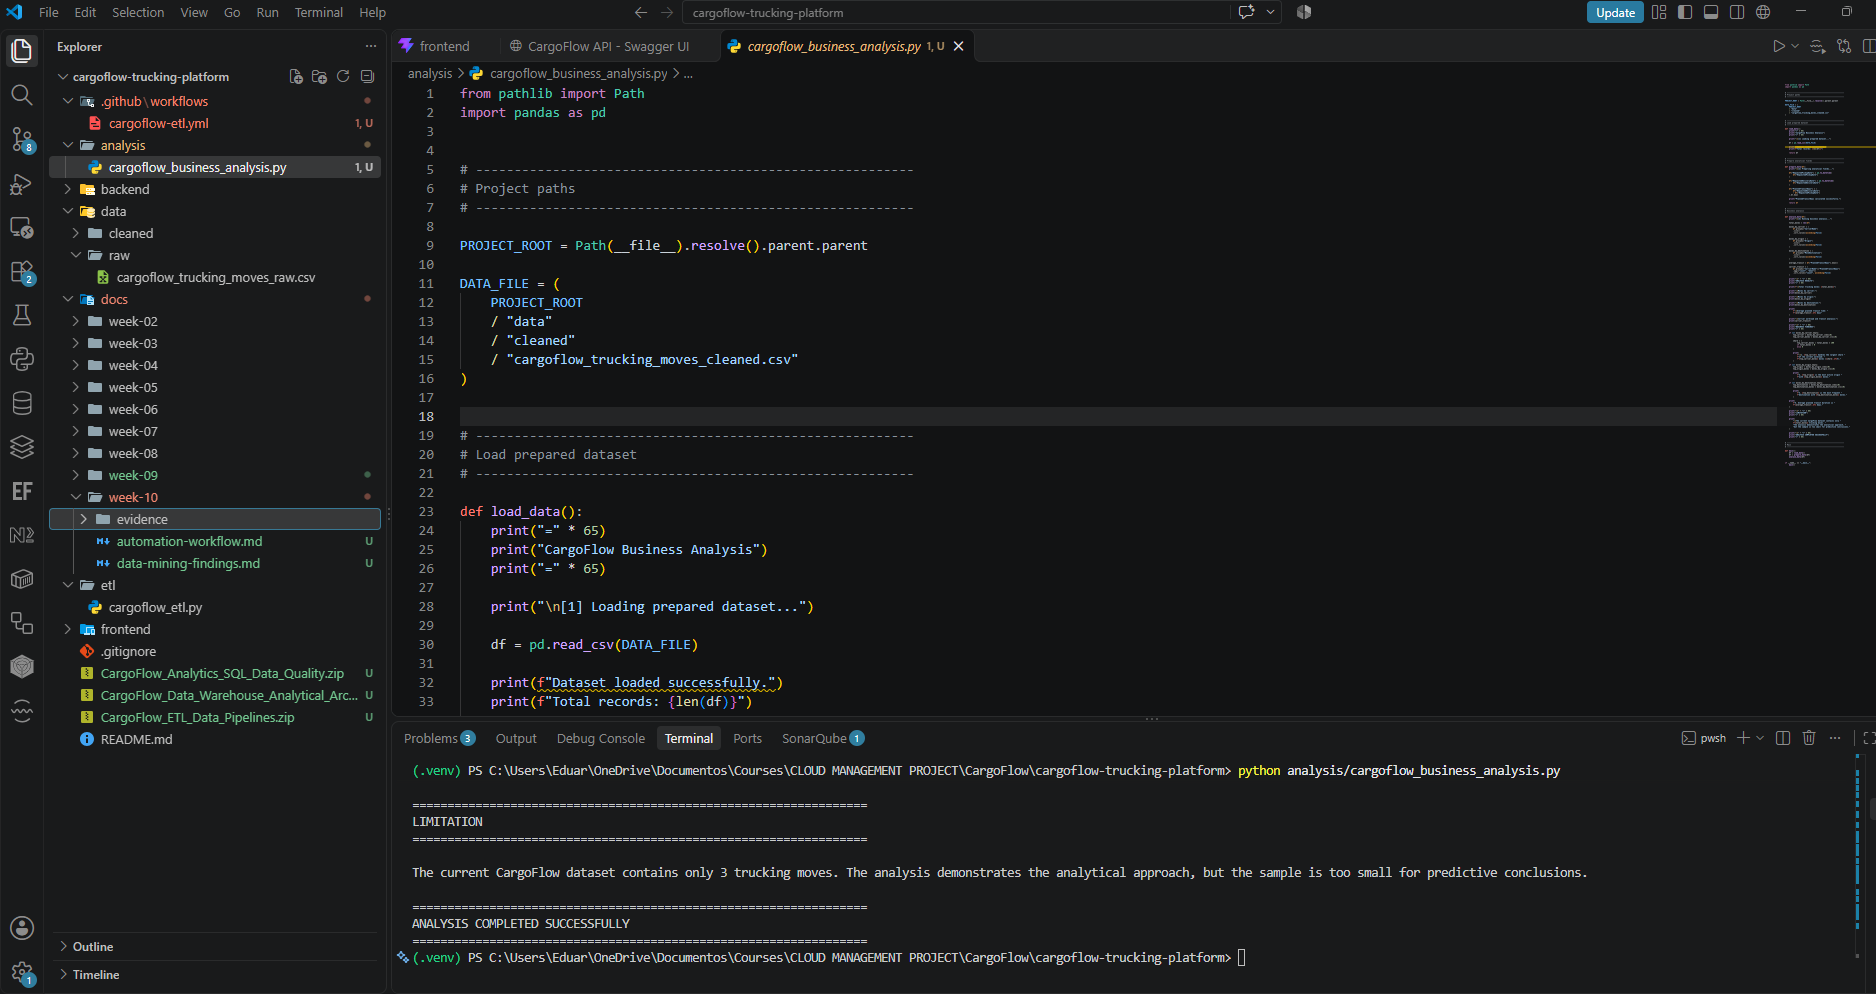
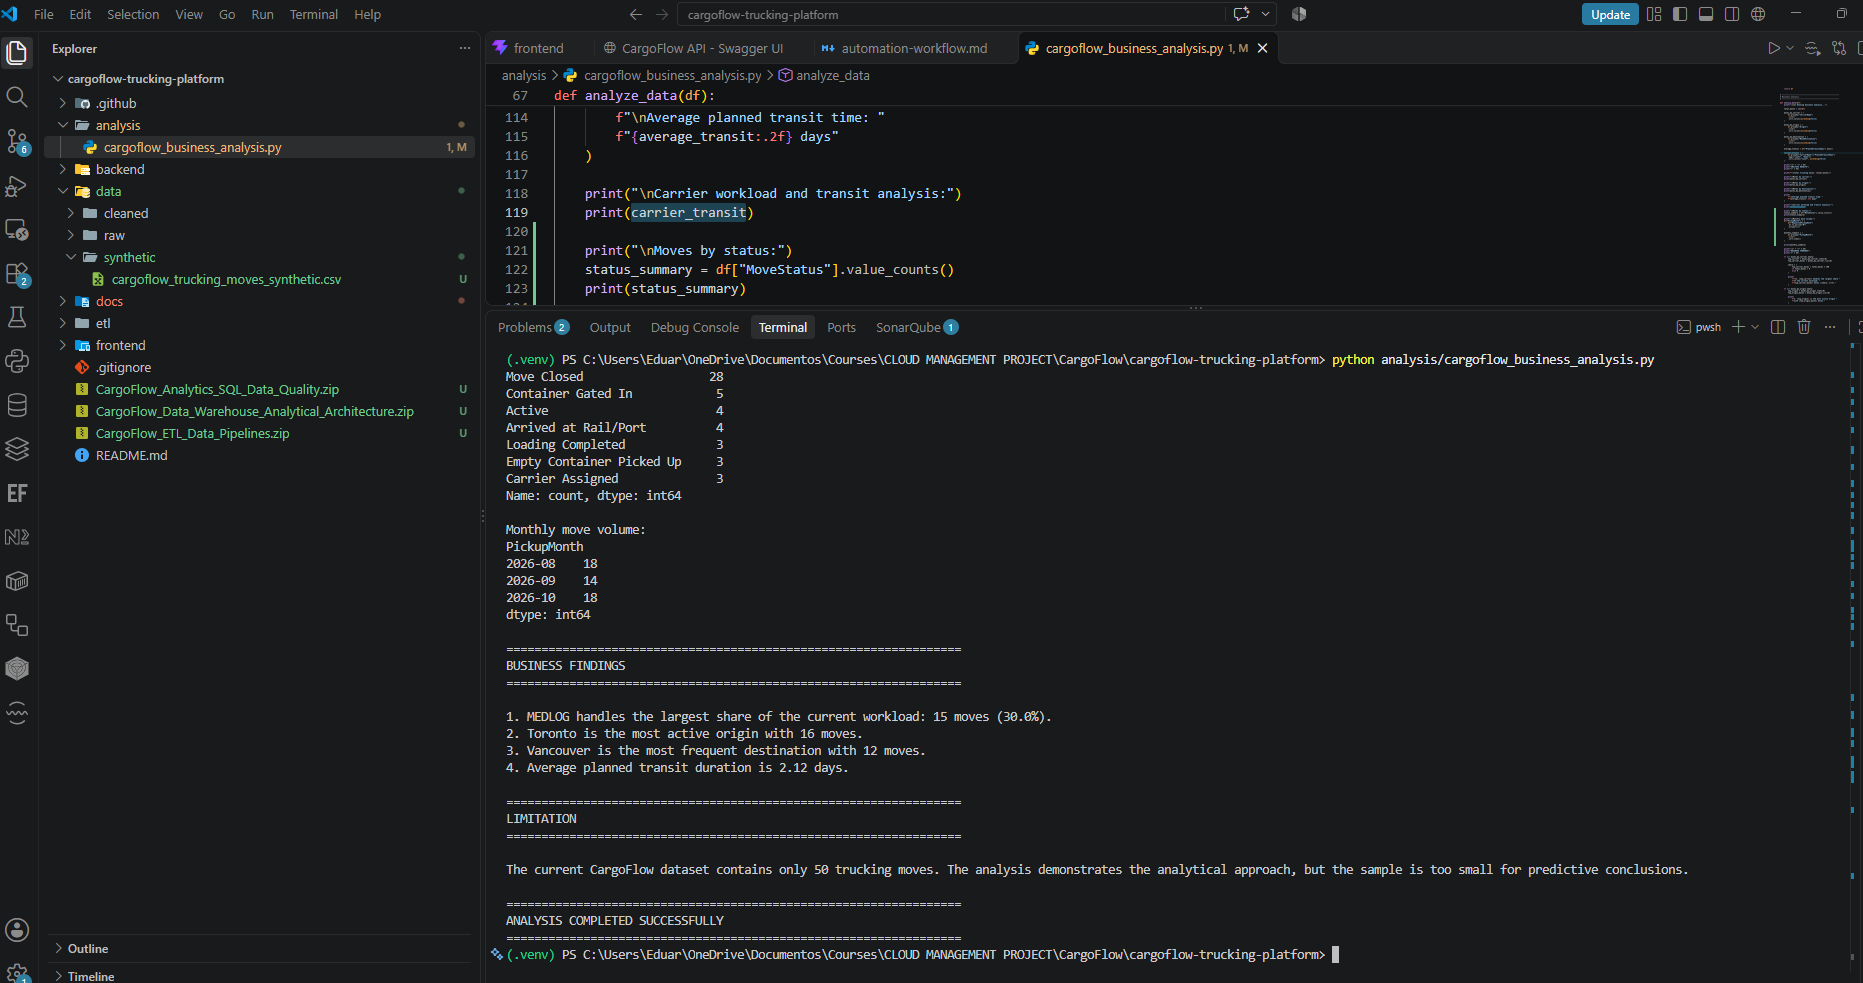
Enhance Week 10 data mining with synthetic analytical dataset

diff --git a/analysis/cargoflow_business_analysis.py b/analysis/cargoflow_business_analysis.py
@@ -11,8 +11,8 @@ PROJECT_ROOT = Path(__file__).resolve().parent.parent
 DATA_FILE = (
     PROJECT_ROOT
     / "data"
-    / "cleaned"
-    / "cargoflow_trucking_moves_cleaned.csv"
+    / "synthetic"
+    / "cargoflow_trucking_moves_synthetic.csv"
 )
 
 
@@ -118,6 +118,25 @@ def analyze_data(df):
     print("\nCarrier workload and transit analysis:")
     print(carrier_transit)
 
+    print("\nMoves by status:")
+    status_summary = df["MoveStatus"].value_counts()
+    print(status_summary)
+
+    print("\nMonthly move volume:")
+    df["PickupMonth"] = (
+        df["RequestedPickupDate"]
+        .dt.to_period("M")
+        .astype(str)
+    )
+
+    monthly_summary = (
+        df.groupby("PickupMonth")
+        .size()
+        .sort_index()
+    )
+
+    print(monthly_summary)
+
     print("\n" + "=" * 65)
     print("BUSINESS FINDINGS")
     print("=" * 65)
@@ -166,10 +185,10 @@ def analyze_data(df):
     print("=" * 65)
 
     print(
-        "\nThe current CargoFlow dataset contains only "
-        f"{total_moves} trucking moves. "
+        "\nThe current CargoFlow analytical dataset contains "
+        f"{total_moves} synthetic trucking moves created for academic demonstration. "
         "The analysis demonstrates the analytical approach, "
-        "but the sample is too small for predictive conclusions."
+        "but production historical data would be required for predictive conclusions."
     )
 
     print("\n" + "=" * 65)

diff --git a/docs/week-10/data-mining-findings.md b/docs/week-10/data-mining-findings.md
@@ -1,115 +1,187 @@
-# CargoFlow Data Mining & Business Analysis Findings
+# CargoFlow Data Mining & Business Analysis
 
 ## Business Question
 
-What operational patterns can be identified in CargoFlow trucking moves by carrier, origin, destination, and planned transit time?
+What operational patterns can be identified in CargoFlow trucking moves by carrier, origin, destination, move status, monthly volume, and planned transit time?
 
 ## Prepared Dataset
 
-The analysis uses the cleaned CargoFlow trucking move dataset:
+For the analytical demonstration, CargoFlow uses a prepared synthetic dataset containing **50 trucking moves**.
 
-`data/cleaned/cargoflow_trucking_moves_cleaned.csv`
+File:
 
-The dataset was produced by the CargoFlow ETL pipeline from Azure SQL Database.
+`data/synthetic/cargoflow_trucking_moves_synthetic.csv`
 
-The cleaned dataset contains business-friendly trucking move information including:
+The dataset was created specifically for academic analytical testing because the operational proof-of-concept Azure SQL database currently contains only a small number of live test records.
 
-- Move reference
-- Booking number
-- Customer
-- Container information
-- Origin
-- Destination
-- Carrier
-- Pickup date
-- Delivery date
-- Move status
+The synthetic dataset follows the same structure as the CargoFlow cleaned operational dataset and represents realistic trucking move scenarios.
 
-Internal database identifiers were removed during the ETL transformation process.
+The operational Azure SQL data remains unchanged.
 
 ## Analytical Approach
 
-A descriptive business analysis was implemented using Python and Pandas.
+The analysis uses descriptive data analysis with **Python and Pandas**.
 
-The analysis calculates:
+The script:
+
+`analysis/cargoflow_business_analysis.py`
+
+loads the prepared dataset and calculates operational metrics including:
 
 - Total trucking moves
-- Trucking moves by carrier
-- Trucking moves by origin
-- Trucking moves by destination
-- Planned transit duration
+- Moves by carrier
+- Moves by origin
+- Moves by destination
 - Average planned transit time
-- Carrier workload distribution
+- Carrier workload and transit performance
+- Move status distribution
+- Monthly move volume
 
-A new analytical field called `PlannedTransitDays` is calculated from the difference between requested pickup and requested delivery dates.
+This approach was selected because CargoFlow is currently a proof-of-concept and does not yet contain enough historical production data for predictive machine-learning models.
 
-## Results
+## Analysis Results
 
-The current dataset contains 3 trucking moves.
+### Total Trucking Moves
 
-### Carrier Activity
+The prepared analytical dataset contains:
 
-MEDLOG handles 2 of the 3 moves.
+**50 trucking moves**
 
-HARLYN handles 1 of the 3 moves.
+### Carrier Workload
 
-This means MEDLOG represents approximately 66.7% of the current sample workload.
+Carrier distribution:
 
-### Origin Activity
+- MEDLOG: 15 moves
+- Musket: 11 moves
+- P&W: 9 moves
+- HARLYN: 8 moves
+- BEST CHOICE: 7 moves
 
-Toronto, ON is the most active origin in the current sample with 2 trucking moves.
+MEDLOG handles the largest share of the simulated workload with:
 
-Calgary, AB has 1 trucking move.
+**30% of all trucking moves**
 
-### Destination Activity
+The remaining workload is distributed across four additional carriers.
 
-CN Brampton is the most frequent destination in the current dataset with 2 trucking moves.
+### Origin Analysis
 
-CN Calgary has 1 trucking move.
+Origin distribution:
+
+- Toronto: 16 moves
+- Brampton: 10 moves
+- Calgary: 9 moves
+- Edmonton: 8 moves
+- Winnipeg: 7 moves
+
+Toronto represents the highest-volume origin with:
+
+**16 moves (32% of the dataset)**
+
+### Destination Analysis
+
+The most frequent destinations include:
+
+- Vancouver: 12 moves
+- Montreal: 8 moves
+- Saint John: 7 moves
+- CN Brampton: 6 moves
+- CN Edmonton: 5 moves
+- CN Calgary: 5 moves
+- Philadelphia: 4 moves
+- New York: 3 moves
+
+Vancouver is the most frequent destination with:
+
+**12 trucking moves**
 
 ### Planned Transit Time
 
-The current sample has an average planned transit duration of approximately 1 day.
+The average planned transit duration across the dataset is:
 
-The current trucking moves show consistent planned transit durations.
+**2.12 days**
 
-## Interpretation of Results
+Carrier-level transit analysis also demonstrates that planned transit time can be compared across carriers to identify differences in expected operational performance.
 
-The results demonstrate how CargoFlow operational data can be transformed into useful business information.
+### Move Status Distribution
 
-Carrier workload analysis can help Operations identify whether trucking activity is concentrated with one carrier.
+The dataset includes multiple operational statuses.
 
-Origin and destination analysis can identify recurring transportation corridors and locations with higher operational activity.
+The largest status group is:
 
-Transit-time analysis provides a foundation for future comparison between planned and actual move performance.
+**Move Closed: 28 moves**
 
-With a larger dataset, these same analytical methods could help identify:
+This represents:
 
-- Carrier concentration
-- High-volume trucking corridors
-- Transit-time differences
-- Operational bottlenecks
-- Customer activity patterns
-- Seasonal changes in trucking volume
+**56% of the analyzed trucking moves**
+
+The remaining records represent moves at different stages of the trucking workflow, including:
+
+- Container Gated In
+- Active
+- Arrived at Rail/Port
+- Loading Completed
+- Empty Container Picked Up
+- Carrier Assigned
+
+This demonstrates how CargoFlow can analyze both completed and in-progress transportation activity.
+
+### Monthly Move Volume
+
+Monthly trucking volume:
+
+- August 2026: 18 moves
+- September 2026: 14 moves
+- October 2026: 18 moves
+
+August and October show the highest simulated volume with **18 moves each**.
+
+Monthly volume analysis could help Operations identify changes in workload and future capacity requirements.
+
+## Business Interpretation
+
+The analysis demonstrates several operational patterns.
+
+MEDLOG carries the largest share of the analyzed workload, but the overall volume remains distributed across five carriers. This provides an example of how CargoFlow could monitor carrier concentration and workload allocation.
+
+Toronto is the most active origin, while Vancouver is the most frequent destination. These patterns can help identify high-volume transportation corridors.
+
+The average planned transit time of 2.12 days provides an operational benchmark that could later be compared with actual transit performance.
+
+The status distribution also provides visibility into how many moves are completed versus still progressing through the trucking workflow.
+
+Finally, monthly volume analysis demonstrates how CargoFlow could support capacity planning and workload monitoring over time.
 
 ## Limitations
 
-The current CargoFlow dataset contains only 3 trucking moves.
+The analytical dataset contains **50 synthetic trucking moves created for academic demonstration**.
 
-This dataset is sufficient to demonstrate the analytical process, but it is too small to support statistically meaningful predictive conclusions.
+The records are not production transactions and should not be interpreted as actual carrier performance or real operational volume.
 
-The analysis should therefore be interpreted as a proof of concept.
+The current analysis is descriptive rather than predictive.
 
-Future versions of CargoFlow could use a larger historical dataset containing hundreds or thousands of trucking moves.
+A production implementation would require:
 
-Additional variables such as actual pickup times, actual delivery times, delays, exceptions, and carrier acceptance information would improve the analysis.
+- Larger historical datasets
+- Actual completed trucking movements
+- Actual pickup and delivery timestamps
+- Delay and exception information
+- Carrier performance history
+- Seasonal patterns
+- Cost information
+
+With sufficient production history, CargoFlow could later support predictive analysis such as delay prediction, carrier performance scoring, and workload forecasting.
 
 ## Business Conclusion
 
-The CargoFlow business analysis successfully demonstrates how operational trucking data can support business decision-making.
+The CargoFlow analytical proof-of-concept demonstrates how trucking move data can be transformed into useful operational information.
 
-The current results indicate carrier concentration around MEDLOG and recurring activity between Toronto and CN Brampton within the sample dataset.
+The analysis identifies:
 
-Although the dataset is small, the analytical workflow provides a scalable foundation for future reporting, performance analysis, and data mining.
+- Carrier workload distribution
+- High-volume origins
+- High-volume destinations
+- Planned transit patterns
+- Move status distribution
+- Monthly workload trends
 
-As more operational data becomes available, CargoFlow could expand this analysis to support carrier performance evaluation, delay prediction, operational planning, and transportation trend analysis.
+Although the current dataset is synthetic, the same analytical approach can scale to real operational CargoFlow data as the platform accumulates production history.

diff --git a/docs/week-10/automation-workflow.md b/docs/week-10/automation-workflow.md
@@ -62,11 +62,13 @@ This demonstrates a scheduled cloud automation process that does not require a u
 
 ## Input
 
-The workflow uses the cleaned CargoFlow trucking move dataset:
+The workflow uses the prepared synthetic CargoFlow analytical dataset:
 
-`data/cleaned/cargoflow_trucking_moves_cleaned.csv`
+`data/synthetic/cargoflow_trucking_moves_synthetic.csv`
 
-This dataset was previously generated through the CargoFlow ETL process.
+This synthetic dataset follows the same structure as the cleaned CargoFlow dataset and was created for academic analytical demonstration.
+
+The dataset contains 50 synthetic trucking moves created for academic analytical demonstration. The operational Azure SQL database remains unchanged.
 
 The prepared dataset includes business-oriented information such as:
 
